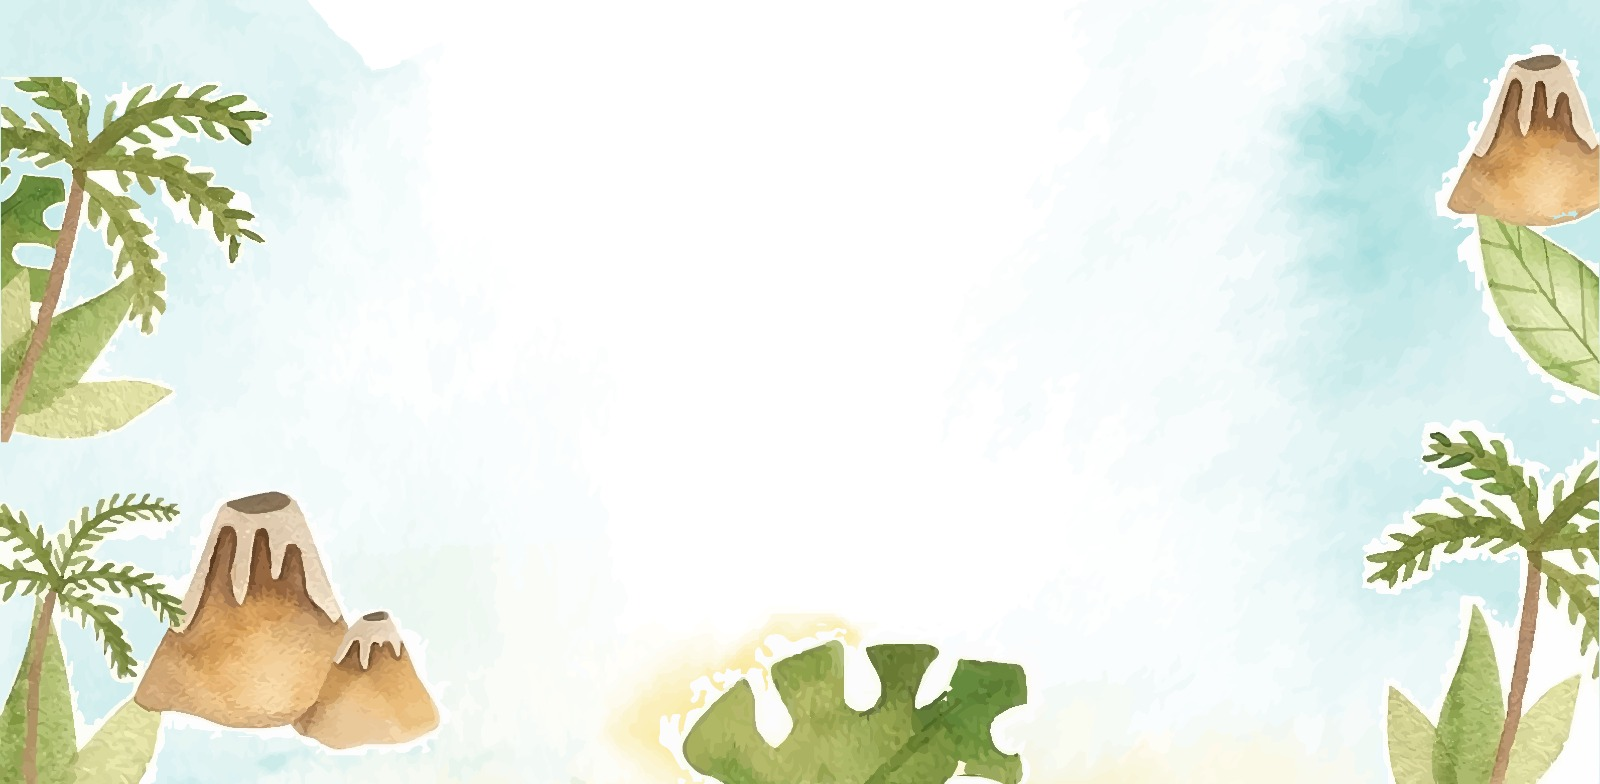
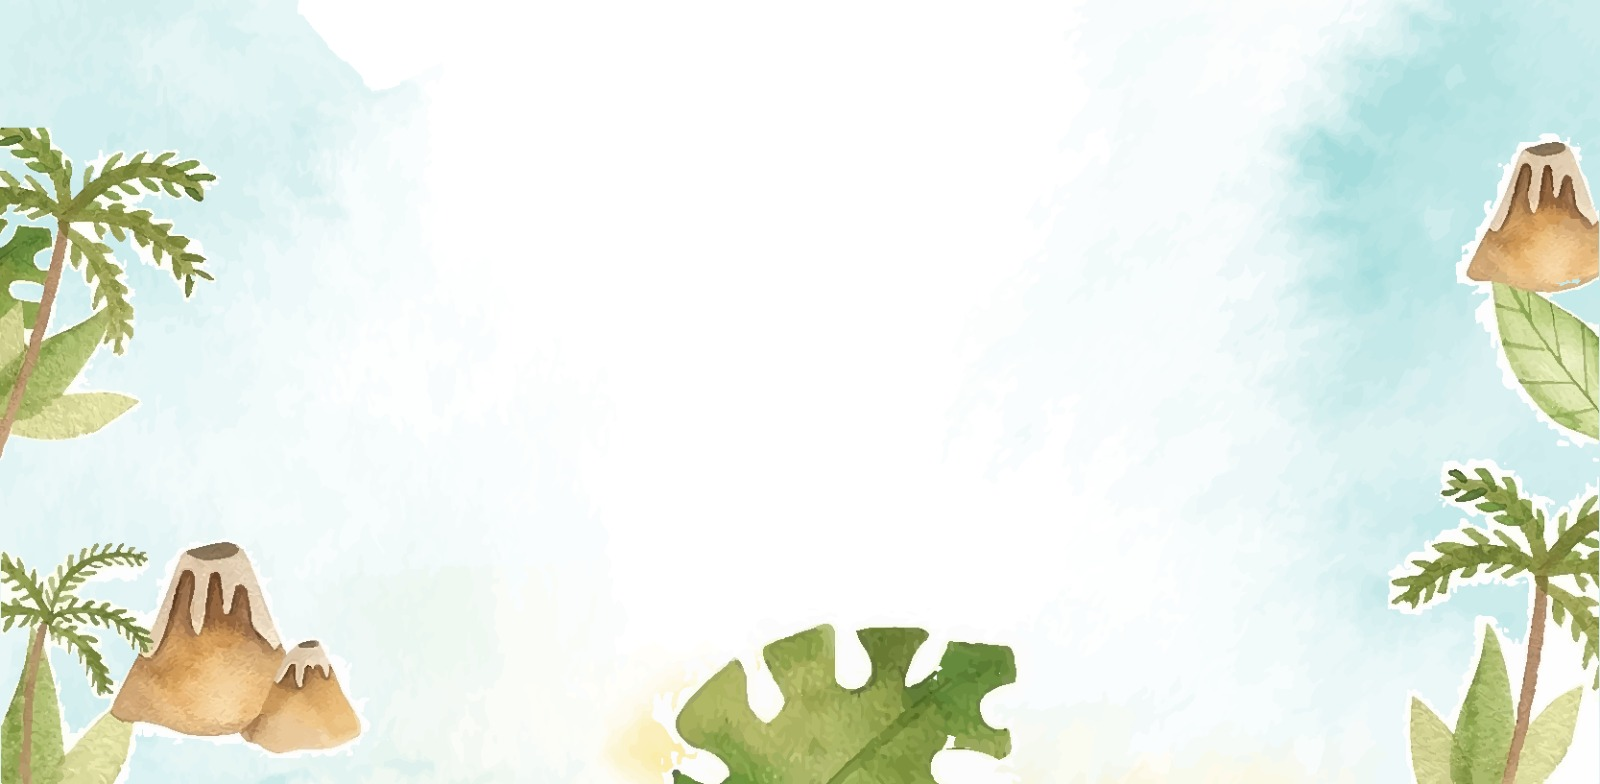
a

diff --git a/style.css b/style.css
@@ -32,7 +32,7 @@
     top: 0;
     left: 0;
     width: 100%;
-    height: 110vh;
+    height: 100vh;
     background-image: url(/assets/img/bg-main.jpg);
     background-repeat: no-repeat;
     background-size: cover;
@@ -150,6 +150,9 @@ header {
     font-size: 20px;
     z-index: 100000;
     padding-bottom: 0;
+    background-image: url(/assets/img/bg-main.jpg);
+    background-size: cover;
+    background-repeat: no-repeat;
 }
 
 nav {
@@ -605,6 +608,14 @@ button[type="submit"] {
     position: relative;
 }
 
+@media screen and (max-width: 1333px) {
+    header {
+        background-image: url(/assets/img/top-bg.jpg);
+        background-size: cover;
+        background-repeat: no-repeat;
+    }
+}
+
 @media screen and (max-width: 1020px) {
     ul {
         display: flex;
@@ -628,6 +639,7 @@ button[type="submit"] {
 
     header {
         background-color: white;
+        background-image: none !important;
     }
 
     nav {
@@ -839,7 +851,7 @@ button[type="submit"] {
         font-weight: 100;
     }
 
-    .sc-np{
+    .sc-np {
         margin-top: 200px !important;
     }
 

diff --git a/index.html b/index.html
@@ -13,13 +13,12 @@
     <div class="background-image"></div>
     <header>
         <nav>
-            <a class="home" href="babyshower.github.io">Inicio</a>
+            <a class="home" href="https://babyshoweragnes.github.io/">Inicio</a>
             <span style="display: none;" id="show-nav"><img src="/assets/icons/menu-2.svg"></span>
             <ul >
-                <a href="#schedule">Menu</a>
-                <a href="#invitation">Invitacion</a>
-                <a href="#howtogo">Ubicacion</a>
-                <a href="#">Contacto</a>
+                <a href="#schedule">Detalles</a>
+                <a href="#invitation">Reserva</a>
+                <a href="#howtogo">Lugar</a>
             </ul>
         </nav>
     </header>
